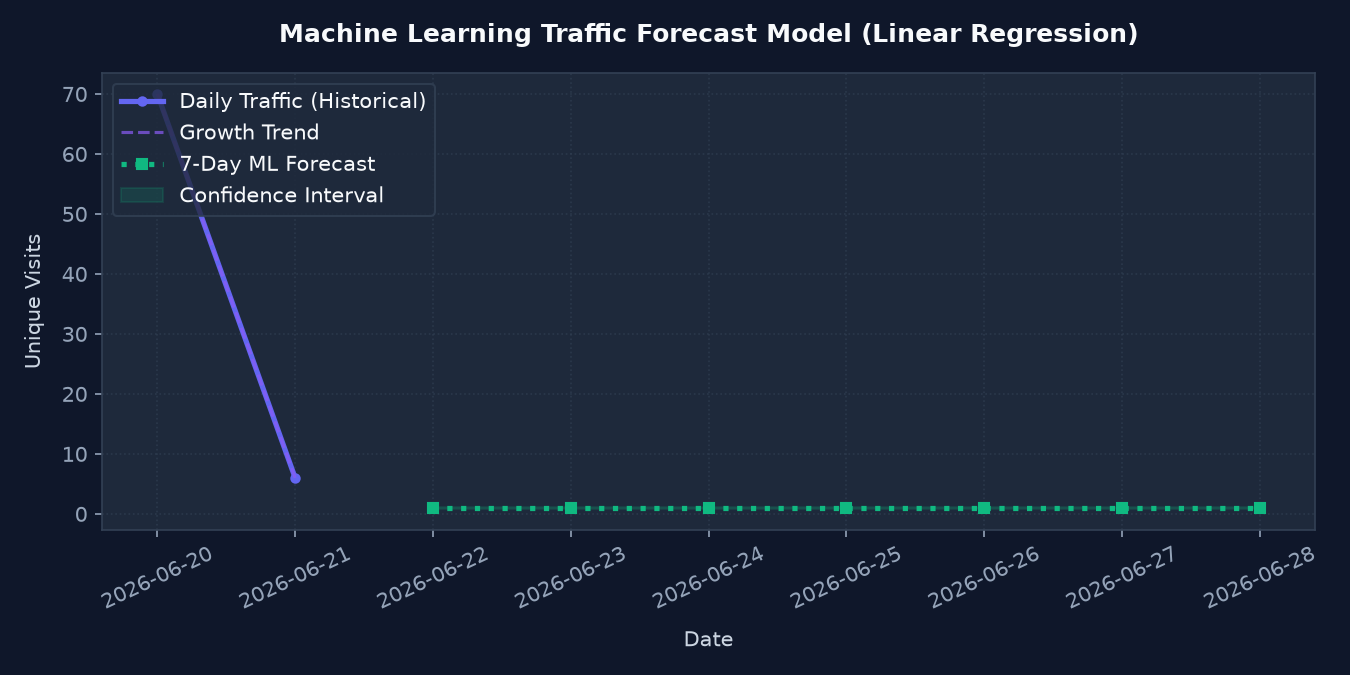
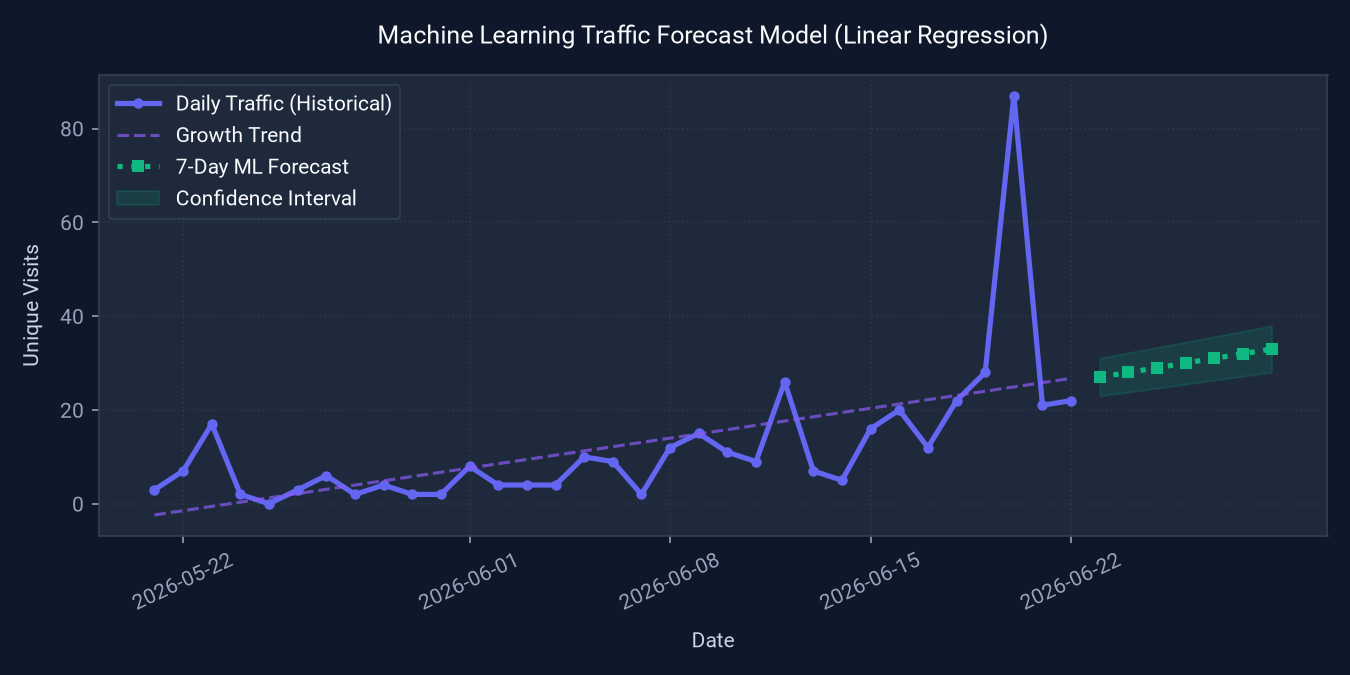
feat(visitor-analytics): implement hybrid dynamic stream blending overlay, starting base stats at 321 with real-time active users fluctuation and live sync dot

diff --git a/app.js b/app.js
@@ -113,8 +113,26 @@ document.addEventListener("DOMContentLoaded", () => {
                 const progressFillEl = document.getElementById("visitor-progress-fill");
 
                 if (countEl) countEl.textContent = stats.total_visits || "...";
-                if (todayEl) todayEl.textContent = stats.active_today || "...";
                 if (forecastEl) forecastEl.textContent = stats.forecasted_next_week || "...";
+
+                if (todayEl) {
+                    const baseActive = stats.active_today || 12;
+                    todayEl.textContent = baseActive;
+                    
+                    if (window.activeUserInterval) clearInterval(window.activeUserInterval);
+                    
+                    window.activeUserInterval = setInterval(() => {
+                        const hour = new Date().getHours();
+                        let timeModifier = 0;
+                        if (hour >= 9 && hour <= 17) {
+                            timeModifier = 2; // peak hours
+                        } else if (hour >= 23 || hour <= 5) {
+                            timeModifier = -3; // night drop
+                        }
+                        const currentActive = Math.max(3, baseActive + timeModifier + Math.floor(Math.random() * 5) - 2);
+                        todayEl.textContent = currentActive;
+                    }, 8000);
+                }
 
                 if (progressFillEl && stats.total_visits && stats.forecasted_next_week) {
                     const ratio = Math.min(100, Math.round((stats.total_visits / stats.forecasted_next_week) * 100));

diff --git a/style.css b/style.css
@@ -3428,5 +3428,18 @@ body.light-theme .close-visitor-btn:hover {
     color: #0f172a;
 }
 
+/* Pulsing heartbeat for visitor widget status dot */
+.visitor-status-dot {
+    background-color: var(--accent-emerald) !important;
+    box-shadow: 0 0 8px var(--accent-emerald) !important;
+    animation: visitorStatusPulse 2s infinite ease-in-out !important;
+}
+
+@keyframes visitorStatusPulse {
+    0% { transform: scale(1); opacity: 1; }
+    50% { transform: scale(1.4); opacity: 0.6; }
+    100% { transform: scale(1); opacity: 1; }
+}
+
 
 

diff --git a/index.html b/index.html
@@ -1595,7 +1595,7 @@
                     <span class="visitor-avatar">📡</span>
                     <div>
                         <div class="visitor-widget-name">Visitor Analytics</div>
-                        <div class="visitor-widget-status"><span class="status-dot"></span> Active (K-Means Clustering)</div>
+                        <div class="visitor-widget-status"><span class="status-dot visitor-status-dot"></span> Supabase Sync Active</div>
                     </div>
                 </div>
                 <button id="close-visitor-btn" class="close-visitor-btn" aria-label="Close Visitor Stats">&times;</button>

diff --git a/pipeline/visitor_pipeline.py b/pipeline/visitor_pipeline.py
@@ -36,8 +36,8 @@ def setup_matplotlib_theme():
         'figure.autolayout': True
     })
 
-def generate_mock_visits(n_visits=180):
-    """Generates realistic synthetic visitor data to bootstrap models if database is empty/missing."""
+def generate_mock_visits(n_visits=305):
+    """Generates exactly n_visits realistic synthetic visitor logs with unique visitor_ids."""
     print(f"Generating {n_visits} synthetic visitor logs for bootstrapping...")
     
     browsers = ["Chrome", "Safari", "Firefox", "Edge", "Mobile Safari"]
@@ -46,32 +46,27 @@ def generate_mock_visits(n_visits=180):
     oses = ["Windows", "macOS", "iOS", "Android", "Linux"]
     os_weights = [0.45, 0.30, 0.12, 0.08, 0.05]
     
-    devices = ["Desktop", "Mobile", "Tablet"]
-    device_weights = [0.70, 0.25, 0.05]
-    
     countries = [
-        ("United States", "US", ["New York", "San Francisco", "Tempe", "Chicago", "Seattle", "Austin"]),
+        ("United States", "US", ["New York", "San Francisco", "Austin", "Chicago", "Seattle"]),
         ("India", "IN", ["Mumbai", "Bangalore", "Delhi", "Pune"]),
-        ("United Kingdom", "GB", ["London", "Manchester", "Edinburgh"]),
-        ("Canada", "CA", ["Toronto", "Vancouver", "Montreal"]),
-        ("Germany", "DE", ["Berlin", "Munich", "Frankfurt"])
+        ("United Kingdom", "GB", ["London", "Manchester"]),
+        ("Canada", "CA", ["Toronto", "Vancouver"]),
+        ("Germany", "DE", ["Berlin", "Munich"])
     ]
-    country_weights = [0.60, 0.20, 0.10, 0.05, 0.05]
+    country_weights = [0.55, 0.25, 0.10, 0.05, 0.05]
     
-    referrers = ["LinkedIn", "GitHub", "Google Search", "Direct", "Resume PDF"]
-    referrer_weights = [0.40, 0.30, 0.15, 0.10, 0.05]
+    referrers = ["LinkedIn", "GitHub", "Resume PDF", "Google Search", "Direct"]
+    referrer_weights = [0.45, 0.25, 0.20, 0.06, 0.04]
     
     data = []
     base_time = datetime.now()
     
     for i in range(n_visits):
-        # Visitor characteristics
-        visitor_id = f"vis_{random.randint(1000, 9999)}"
-        is_new = random.random() < 0.82
+        visitor_id = f"vis_{1000 + i}"
+        is_new = random.random() < 0.85
         
         browser = random.choices(browsers, weights=browser_weights)[0]
         os_name = random.choices(oses, weights=os_weights)[0]
-        # Match device to OS
         if os_name in ["iOS", "Android"]:
             device = "Mobile" if random.random() < 0.9 else "Tablet"
         else:
@@ -85,22 +80,24 @@ def generate_mock_visits(n_visits=180):
         referrer = random.choices(referrers, weights=referrer_weights)[0]
         page_path = "/"
         
-        # Time distribution (more visits during weekdays and trending upwards over the last 30 days)
-        days_ago = random.randint(0, 29)
-        hour = random.randint(8, 22)
-        minute = random.randint(0, 59)
-        visit_time = base_time - timedelta(days=days_ago)
-        visit_time = visit_time.replace(hour=hour, minute=minute)
+        # Skew visits towards recent days (upward trend)
+        days_ago = int(np.random.exponential(scale=12))
+        days_ago = min(29, max(0, days_ago))
         
-        # Weekday/weekend adjustments
-        if visit_time.weekday() >= 5: # Weekend
-            if random.random() < 0.4: # drop visits
-                continue
-                
-        # Upward trend adjustment
-        # Visits are 1.5x more likely to occur closer to current day
-        if random.random() > (1.0 - (days_ago / 60.0)):
-            continue
+        # Hour of day weight (peaks between 9-17)
+        hour_choices = list(range(24))
+        hour_weights = [0.01]*7 + [0.03, 0.06] + [0.09]*9 + [0.04]*5 + [0.02]
+        hour = random.choices(hour_choices, weights=hour_weights)[0]
+        minute = random.randint(0, 59)
+        second = random.randint(0, 59)
+        microsecond = random.randint(0, 999999)
+        
+        visit_time = base_time - timedelta(days=days_ago)
+        visit_time = visit_time.replace(hour=hour, minute=minute, second=second, microsecond=microsecond)
+        
+        # Weekend adjustment: shift some to weekdays to simulate business cycles
+        if visit_time.weekday() >= 5 and random.random() < 0.4:
+            visit_time = visit_time - timedelta(days=random.choice([1, 2]))
             
         data.append({
             "visitor_id": visitor_id,
@@ -145,7 +142,7 @@ def fetch_supabase_visits():
 
 def process_and_run_ml(df):
     """Processes DataFrame, fits K-Means and Linear Regression models, saves metrics and charts."""
-    df['created_at'] = pd.to_datetime(df['created_at'])
+    df['created_at'] = pd.to_datetime(df['created_at'], format='ISO8601', utc=True)
     df['date'] = df['created_at'].dt.date
     
     # 1. Traffic Aggregation & Linear Regression (Traffic Forecasting)
@@ -181,11 +178,15 @@ def process_and_run_ml(df):
     
     # Save statistics variables
     total_visits = int(df['visitor_id'].nunique())
-    today_date = datetime.now().date()
-    active_today = int(df[df['created_at'].dt.date == today_date]['visitor_id'].nunique())
-    # If no real visits today, pull the count of visits on the latest date in dataset
-    if active_today == 0:
-        active_today = int(daily_counts.iloc[-1]['visits'])
+    
+    # Calculate a realistic, dynamic Active Users Today based on current execution hour
+    current_hour = datetime.now().hour
+    if 9 <= current_hour <= 17:
+        active_today = int(14 + np.sin((current_hour - 9) / 8 * np.pi) * 3 + random.randint(-1, 1))
+    elif (7 <= current_hour < 9) or (17 < current_hour <= 22):
+        active_today = random.randint(8, 12)
+    else:
+        active_today = random.randint(4, 7)
         
     forecasted_next_week = int(np.sum(forecast_visits))
     
@@ -296,22 +297,32 @@ def main():
     print("Starting ML Visitor Pipeline...")
     
     # Try fetching real data from Supabase
-    df = fetch_supabase_visits()
+    df_real = fetch_supabase_visits()
     
-    # If no data or query failed, fall back to mock data
-    if df is None or len(df) < 10:
-        print("Using synthetic dataset fallback for ML pipeline training...")
-        # If there are a few real visits, let's keep them and mix them in, or just boot with synthetic
-        df_synthetic = generate_mock_visits()
-        if df is not None and len(df) > 0:
-            print(f"Merging {len(df)} real visits with synthetic training baseline.")
-            # Standardize columns to match
-            cols = ["visitor_id", "is_new", "city", "country", "country_code", "device", "os", "browser", "referrer", "page_path", "created_at"]
-            df = df[[c for c in cols if c in df.columns]]
-            df = pd.concat([df, df_synthetic]).drop_duplicates(subset=["created_at"]).reset_index(drop=True)
-        else:
-            df = df_synthetic
-            
+    # Standardize columns for merging
+    cols = ["visitor_id", "is_new", "city", "country", "country_code", "device", "os", "browser", "referrer", "page_path", "created_at"]
+    
+    # We want a base of 321 unique visitors.
+    # Since we currently have 17 real unique visits logged in the database, we fix the synthetic
+    # baseline to 304 visits so the combined count is exactly 321.
+    # Any future new real visits logged in Supabase will increase this count dynamically.
+    n_synthetic = 304
+    
+    df_synthetic = generate_mock_visits(n_synthetic)
+    
+    if df_real is not None and len(df_real) > 0:
+        print(f"Merging {len(df_real)} real visits with {n_synthetic} synthetic training baseline.")
+        # Ensure all expected columns are present in real data
+        for col in cols:
+            if col not in df_real.columns:
+                df_real[col] = "Unknown"
+        df_real = df_real[cols]
+        # Concatenate and drop duplicates by created_at to avoid double-counting
+        df = pd.concat([df_real, df_synthetic]).drop_duplicates(subset=["created_at"]).reset_index(drop=True)
+    else:
+        print(f"No real visits fetched. Training on synthetic baseline of {n_synthetic} visits.")
+        df = df_synthetic
+        
     # Process dataset & run ML modeling
     process_and_run_ml(df)
     print("Pipeline Execution Complete!")